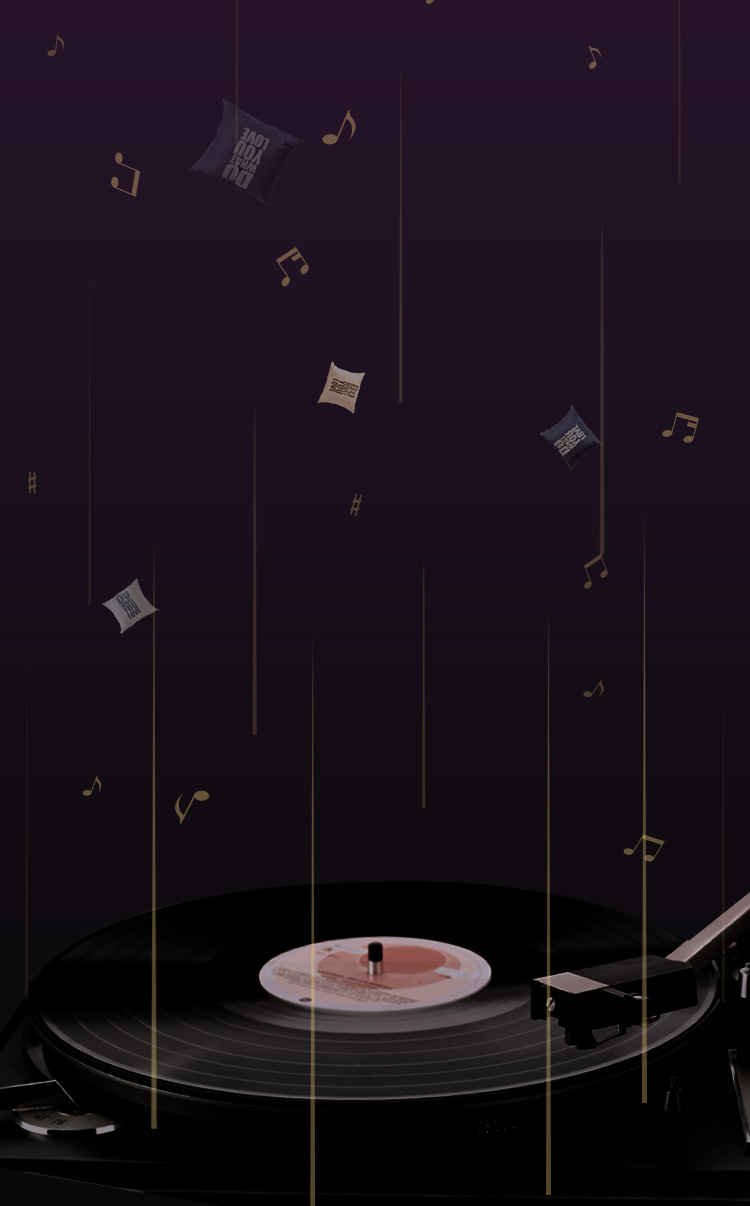
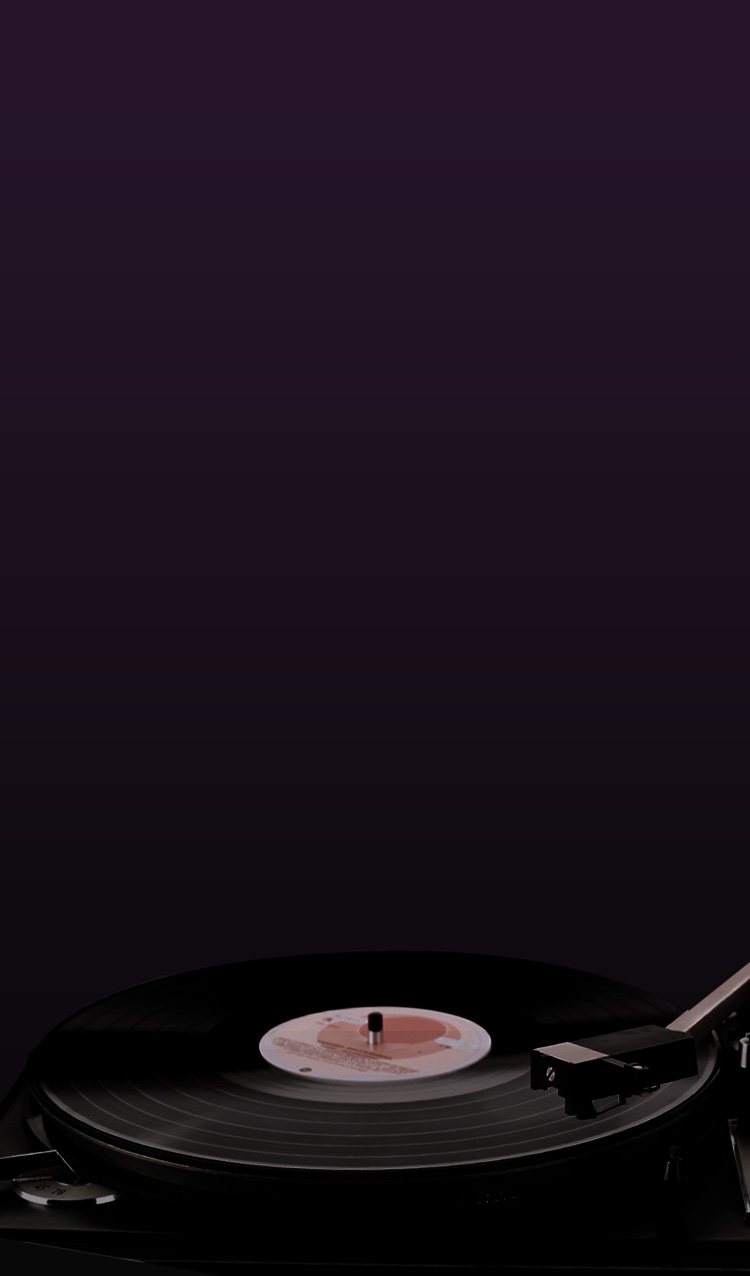
by darre

diff --git a/index.html b/index.html
@@ -26,7 +26,7 @@
 </head>
 <body>
 <div class="container" id="container">
-    <div class="firstAd">
+    <div class="firstAd" style="display: none">
         <div class="music_play"><img src="img/music_play_03.png"></div>
         <div class="steps">
             <div class="step step_1">
@@ -71,8 +71,11 @@
         <div class="touchIcon" id="touchIcon"></div>
         <div class="touchLine"></div>
     </div>
-    <div id="arScene" class="arScene" style="display: none;">
+    <div id="arScene" class="arScene" >
     </div>
+    <div class="layer layer_1"></div>
+    <div class="layer layer_2"></div>
+    <div class="layer layer_3"></div>
     <div  class="ar_item_1" id="ar_item_1"></div>
     <div  class="ar_item_2" id="ar_item_2"></div>
     <div  class="ar_item_3" id="ar_item_3"></div>
@@ -160,11 +163,7 @@
       }
       preventString(event);
     })
-    var s = new C3D.Stage();
-    s.size(window.innerWidth, window.innerHeight).material({
-      color: "rgba(0,0,0,0)"
-    }).update();
-    document.getElementById("arScene").appendChild(s.el);
+
     $(".music_btn").on("click",function () {
       console.log("click");
       $('.firstAd').fadeOut(800);
@@ -182,46 +181,112 @@
         $(".mainBar").fadeIn(800);
       }
     })
+    setTimeout(function () {
+      $("#container").addClass("animate");
+    },500)
     //创建场景
+    var s = new C3D.Stage();
+    s.size(window.innerWidth, window.innerHeight).material({
+      color: "rgba(0,0,0,0)"
+    }).update();
+    document.getElementById("arScene").appendChild(s.el);
+    //创建立方图
+    var panoRect = {w: 1200, h: 800};
+    var bgData = [
+      {url: 'img/item_1_02.png'},
+      {url: 'img/item_2_03.png'},
+      {url: 'img/item_3_03.png'},
+      {url: 'img/item_4_03.png'},
+      {url: 'img/item_5_03.png'},
+      {url: 'img/item_6_03.png'},
+      {url: 'img/item_7_03.png'},
+      {url: 'img/item_8_03.png'},
+      {url: 'img/item_9_03.png'},
+      {url: 'img/item_10_03.png'},
+      {url: 'img/item_11_03.png'},
+      {url: 'img/item_12_03.png'},
+      {url: 'img/item_13_03.png'},
+      {url: 'img/item_14_03.png'},
+      {url: 'img/item_15_03.png'},
+      {url: 'img/item_17_03.png'},
+      {url: 'img/item_18_03.png'},
+      {url: 'img/item_19_03.png'},
+      {url: 'img/item_20_03.png'},
+    ];
+    function createPano(imgs, rect) {
+      var _len = imgs.length;
+      var _step = rect.w / _len;
+      var _radius = Math.floor(_step / 2 / Math.tan(Math.PI / _len)) - 1;
+      var _sp = new C3D.Sprite();
+      for (var i = 0; i < _len; i++) {
+        var _p = new C3D.Plane();
+        var _r = 360 / _len * i;
+        var _a = Math.PI * 2 / _len * i;
+        _p.size(_step, rect.h).position(Math.sin(_a) * _radius, 0, -Math.cos(_a) * _radius).rotation(0, -_r, 0).material({
+          image: imgs[i].url,
+          repeat: 'no-repeat',
+          bothsides: false,
+        }).update();
+        _sp.addChild(_p);
+      }
+      return _sp;
+    }
+
     var scene = C3D.create({
       type: 'sprite', position: [0, 0, -s.fov], children: [
         {
           type: 'plane',
           el: document.getElementById('ar_item_1'),
           name: 'p1',
-          size: [150],
-          position: [100, -30, 0],
-          rotation: [20, 0, 0],
+          size: [200],
+          position: [-400, 300, 0],
+          rotation: [0, 0, 0],
         },
         {
           type: 'plane',
           el: document.getElementById('ar_item_2'),
           name: 'p2',
-          size: [150],
-          position: [-100, -150, 0],
-          rotation: [20, 0, 0],
-//          material: [{color: C3D.getRandomColor()}]
+          size: [200],
+          position: [120, 200, 0],
+          rotation: [0, 0, 0],
         },
         {
           type: 'plane',
           el: document.getElementById('ar_item_3'),
           name: 'p3',
-          size: [150],
-          position: [-100, 150, 0],
-          rotation: [20, 0, 0],
-//          material: [{color: C3D.getRandomColor()}]
+          size: [200],
+          position: [900, 300, 0],
+          rotation: [0, 0, 0],
         },
       ]
     });
-    setTimeout(function () {
-      $("#container").addClass("animate");
-    },500)
-    s.addChild(scene);
-    requestAnimationFrame = window.requestAnimationFrame || window.mozRequestAnimationFrame || window.webkitRequestAnimationFrame || window.msRequestAnimationFrame || window.oRequestAnimationFrame;
+
+    scene.p1.on("click",function () {
+      console.log("p1")
+    })
+    scene.p2.on("click",function () {
+      console.log("p2")
+    })
+    scene.p3.on("click",function () {
+      console.log("p3")
+    })
+    var pano = createPano(bgData, panoRect);
+    pano.position(0, -200, -400).updateT();
+    pano.addChild(scene);
+    s.addChild(pano);
+//    s.addChild(scene);
+    //刷新场景
+    requestAnimationFrame = window.requestAnimationFrame || window.mozRequestAnimationFrame || window.webkitRequestAnimationFrame || window.msRequestAnimationFrame || window.oRequestAnimationFrame ||
+      function (callback) {
+        setTimeout(callback, 1000 / 60);
+      };
     function go() {
-      scene.rotate(0, 1, 0).updateT();
-      scene.p3.rotate(-1, 0, 0).updateT();
+      pano.rotate(0, 0.1, 0).updateT();
+//      requestAnimationFrame(go);
+//      scene.rotate(0, 1, 0).updateT();
+//      scene.p3.rotate(-1, 0, 0).updateT();
       requestAnimationFrame(go);
+
     }
     requestAnimationFrame(go);
   })

diff --git a/css/main.css b/css/main.css
@@ -205,3 +205,26 @@
     0%{-webkit-transform:translateY(0)}
     100%{-webkit-transform:translateY(-30px)}
 }
+.layer{
+    width:100%;
+    height:100%;
+    position: absolute;
+    left:0;
+    top: 0;
+    display: none;
+}
+.layer_1{
+    background:url("../img/layer_1.jpg");
+    background-repeat:no-repeat;
+    background-size: 100% 100%;
+}
+.layer_2{
+     background:url("../img/layer_2.jpg");
+     background-repeat:no-repeat;
+     background-size: 100% 100%;
+ }
+.layer_3{
+    background:url("../img/layer_3.jpg");
+    background-repeat:no-repeat;
+    background-size: 100% 100%;
+}
